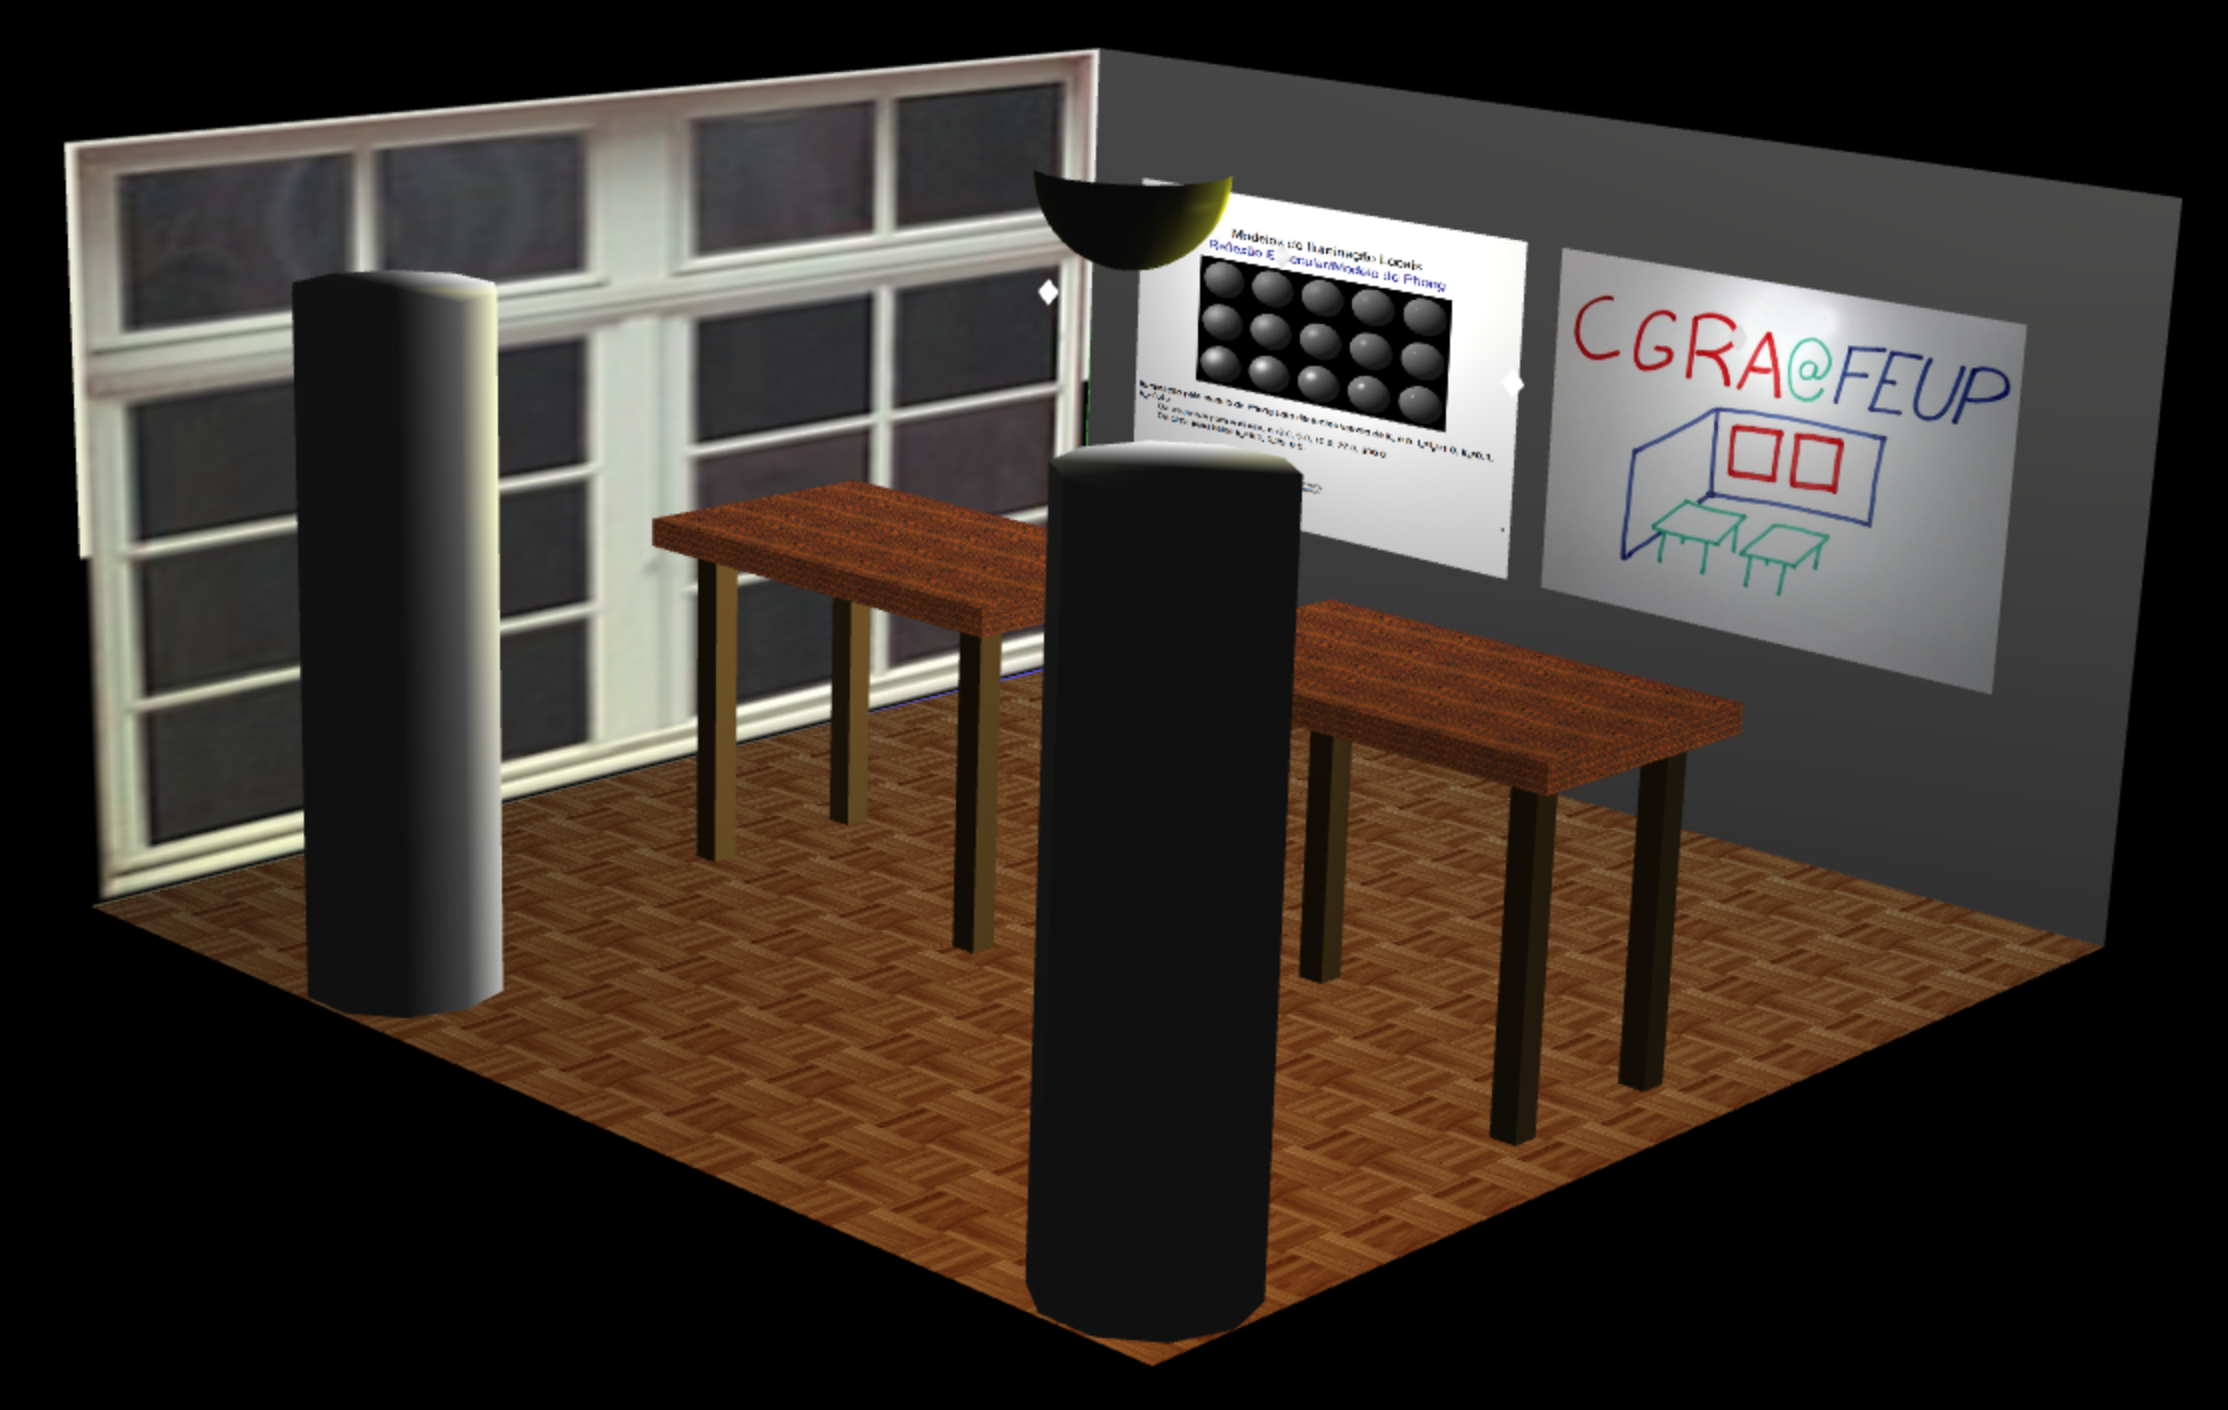
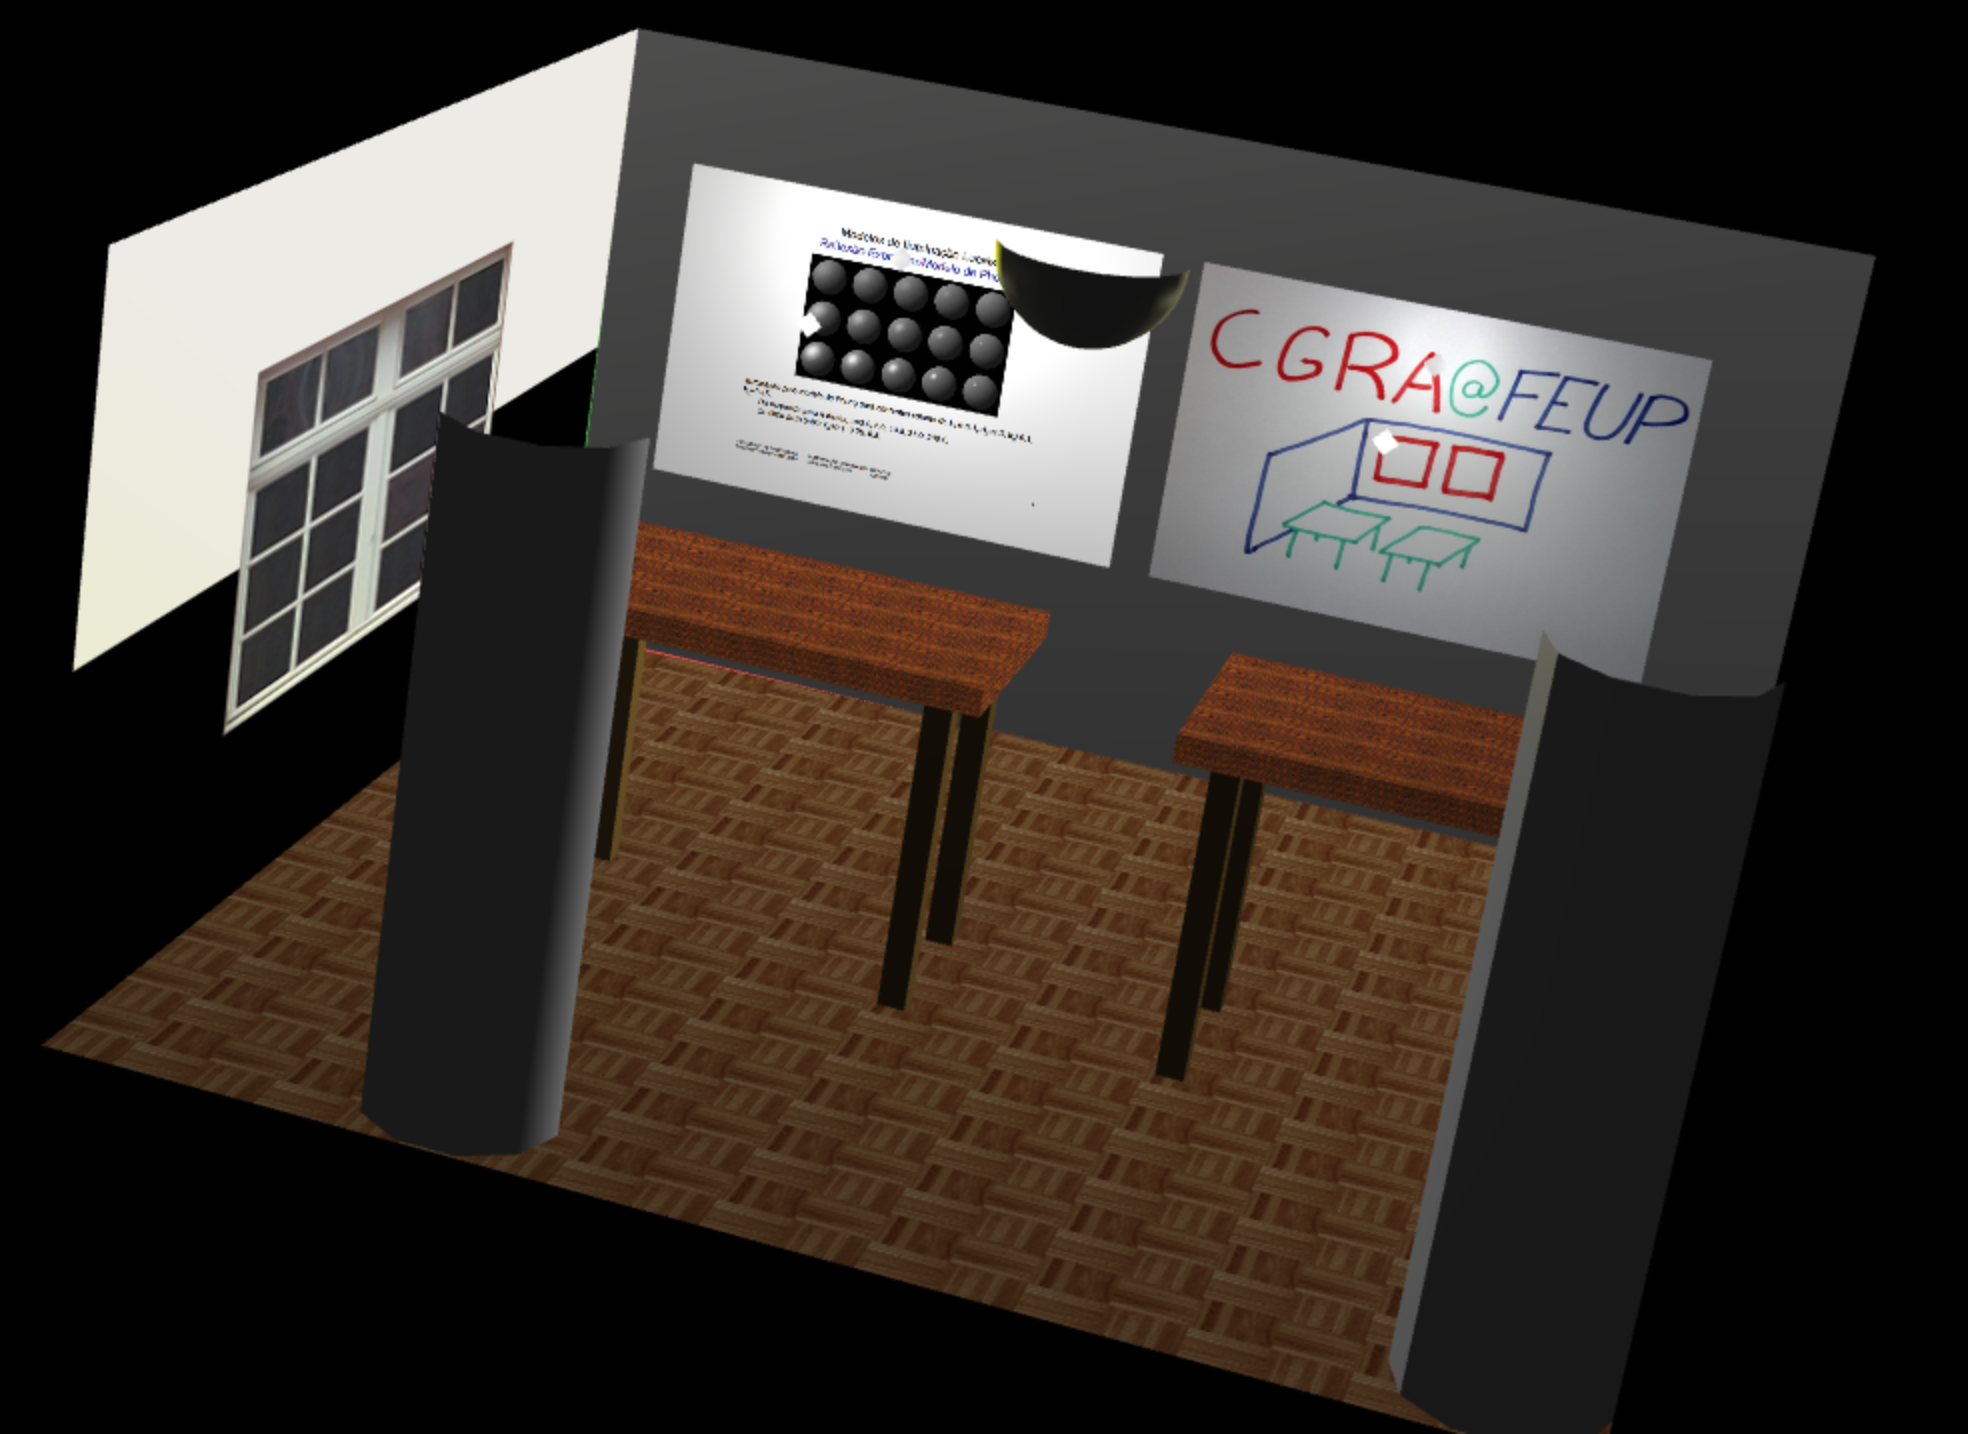
New Screenshots

diff --git a/WebCGF/tp4/LightingScene.js b/WebCGF/tp4/LightingScene.js
@@ -38,7 +38,7 @@ LightingScene.prototype.init = function(application) {
     this.wallLeft = new MyQuad(this, -0.5, 1.5, -0.5, 1.5);
     this.floor = new MyQuad(this, 0, 10, 0, 12);
 
-    this.boardA = new Plane(this,BOARD_A_DIVISIONS, 1.5);
+    this.boardA = new Plane(this,BOARD_A_DIVISIONS, BOARD_WIDTH / BOARD_HEIGHT);
     this.boardB = new Plane(this,BOARD_B_DIVISIONS);
 
     this.prism = new MyPrism(this, 10, 20);
@@ -84,7 +84,6 @@ LightingScene.prototype.init = function(application) {
     this.columnAppearance.setSpecular(0.2, 0.2, 0.2, 1);
     this.columnAppearance.setShininess(50);
     this.columnAppearance.loadTexture("../resources/images/stone_column.png");
-    //this.columnAppearance.loadTexture("../resources/images/test_texture_homer.png");
 
     this.materialLamp = new CGFappearance(this);
     this.materialLamp.setAmbient(0.2, 0.2, 0.2);
